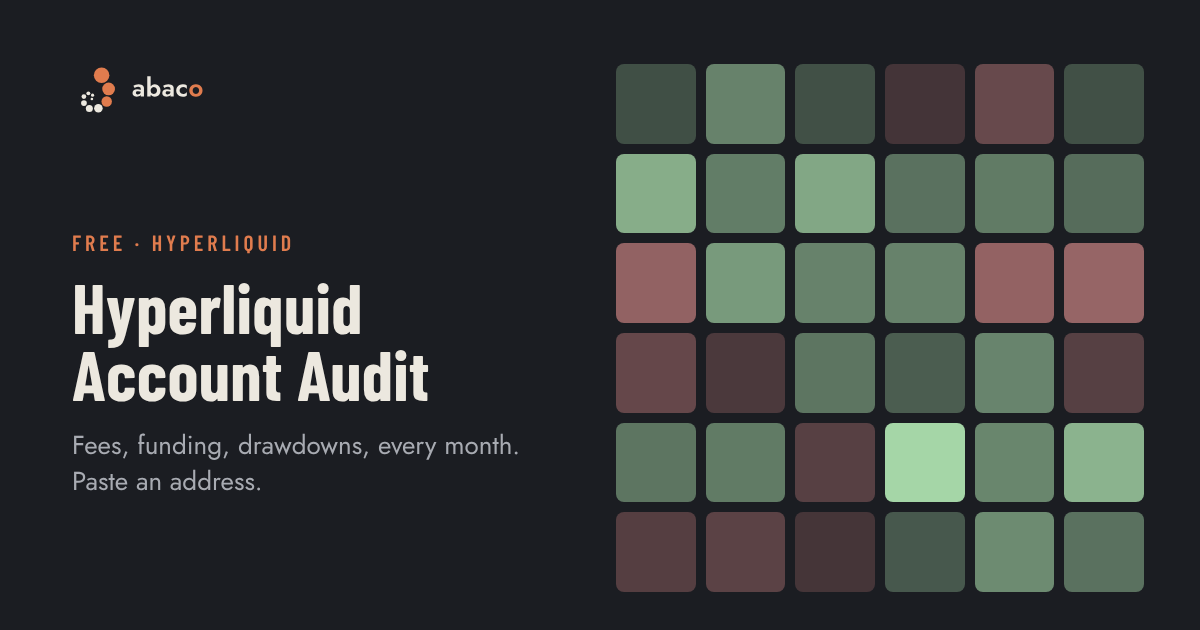
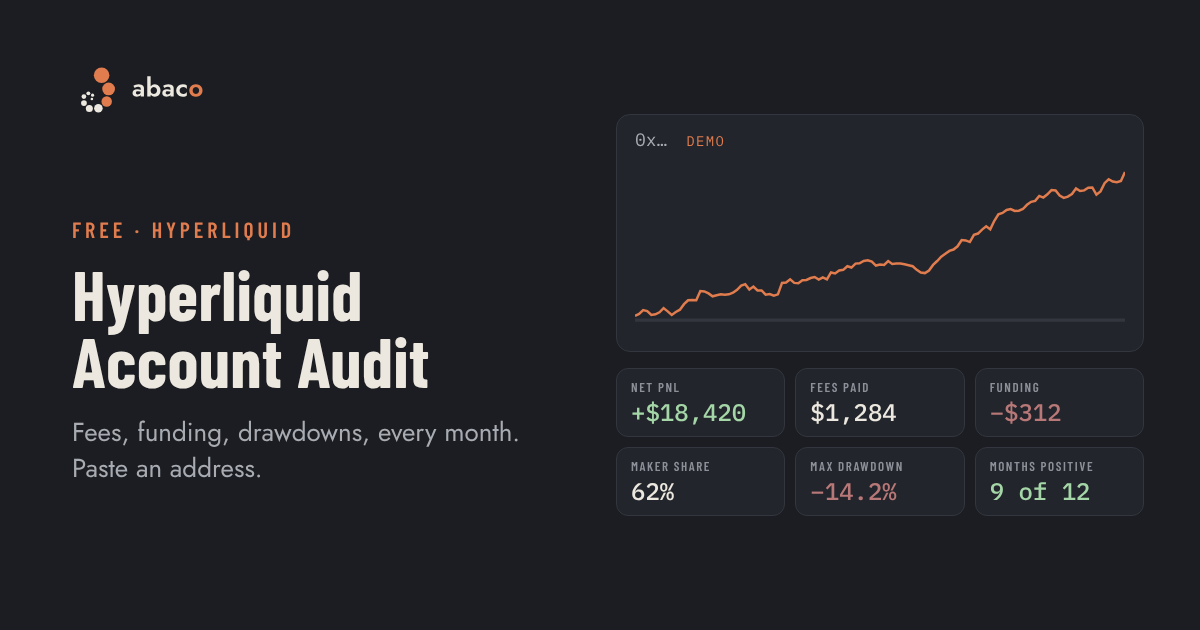
Preview cards: the audit with an equity and a demo report, Phisys with the Book, pricing with the levels, the HL study with 0x8bae's equity; Telegram image shows the messages too
Claude-Session: https://claude.ai/code/session_01PvRzho6i35K84RiJEfQJhD

diff --git a/phisys.html b/phisys.html
@@ -7,10 +7,10 @@
 <meta name="description" content="Phisys: trade by hand with a method, prove your rules out of sample with real costs, and let your Book run from your own Cloudflare account.">
 <meta property="og:title" content="Phisys · Abaco">
 <meta property="og:description" content="Phisys: trade by hand with a method, prove your rules out of sample with real costs, and let your Book run from your own Cloudflare account.">
-<meta property="og:image" content="https://abaco.phisys.app/img/og/phisys.png">
+<meta property="og:image" content="https://abaco.phisys.app/img/og/phisys.png?v=2">
 <meta property="og:image:width" content="1200">
 <meta property="og:image:height" content="630">
-<meta name="twitter:image" content="https://abaco.phisys.app/img/og/phisys.png">
+<meta name="twitter:image" content="https://abaco.phisys.app/img/og/phisys.png?v=2">
 <meta property="og:url" content="https://abaco.phisys.app/phisys.html">
 <meta name="twitter:card" content="summary_large_image">
 <meta name="twitter:site" content="@AbacoLab">
@@ -74,7 +74,7 @@
 <section class="sec" id="run" aria-labelledby="run-h">
   <div class="wrap">
     <div class="sec-head"><p class="eyebrow"><svg class="step" viewBox="0 0 48 12" aria-hidden="true"><path d="M1 6h46"/><circle cx="6" cy="6" r="3.3"/><circle cx="24" cy="6" r="3.3"/><circle cx="42" cy="6" r="3.3" class="on"/></svg>book · let it run</p><h2 id="run-h">Stop staring at charts</h2><p class="lede wide2">When a rule has held out of sample, its setup goes in your Book. The executor runs it round the clock from your own account, while you live your life.</p></div>
-    <div class="reel" role="list" aria-label="Book and executor in Phisys" tabindex="0"><figure><div class="shot has-img"><img src="img/phisys/book.webp" alt="Phisys: Book" loading="lazy" decoding="async"></div><figcaption><b>Book</b><span>Tested setups held together: 5, 8, 13 or no limit, by plan. One Book runs live at a time.</span></figcaption></figure><figure><div class="shot has-img"><img src="img/phisys/executor.webp" alt="Phisys: Executor" loading="lazy" decoding="async"></div><figcaption><b>Executor</b><span>Sends the Book's orders from your own Cloudflare account, day and night.</span></figcaption></figure><figure><div class="shot has-img"><img src="img/phisys/telegram.webp" alt="Phisys: Telegram when something needs you" loading="lazy" decoding="async"></div><figcaption><b>Telegram when something needs you</b><span>The executor down, a venue gone quiet, an order refused. Never signals.</span></figcaption></figure><figure><div class="shot has-img"><img src="img/phisys/stop-it.webp" alt="Phisys: Stop it from the page" loading="lazy" decoding="async"></div><figcaption><b>Stop it from the page</b><span>At any moment, with one click.</span></figcaption></figure><figure><div class="shot has-img"><img src="img/phisys/screener.webp" alt="Phisys: Screener" loading="lazy" decoding="async"></div><figcaption><b>Screener</b><span>Alerts on a whole watchlist.</span></figcaption></figure></div>
+    <div class="reel" role="list" aria-label="Book and executor in Phisys" tabindex="0"><figure><div class="shot has-img"><img src="img/phisys/book.webp" alt="Phisys: Book" loading="lazy" decoding="async"></div><figcaption><b>Book</b><span>Tested setups held together: 5, 8, 13 or no limit, by plan. One Book runs live at a time.</span></figcaption></figure><figure><div class="shot has-img"><img src="img/phisys/executor.webp" alt="Phisys: Executor" loading="lazy" decoding="async"></div><figcaption><b>Executor</b><span>Sends the Book's orders from your own Cloudflare account, day and night.</span></figcaption></figure><figure><div class="shot has-img"><img src="img/phisys/telegram.webp?v=2" alt="Phisys: Telegram when something needs you" loading="lazy" decoding="async"></div><figcaption><b>Telegram when something needs you</b><span>The executor down, a venue gone quiet, an order refused. Never signals.</span></figcaption></figure><figure><div class="shot has-img"><img src="img/phisys/stop-it.webp" alt="Phisys: Stop it from the page" loading="lazy" decoding="async"></div><figcaption><b>Stop it from the page</b><span>At any moment, with one click.</span></figcaption></figure><figure><div class="shot has-img"><img src="img/phisys/screener.webp" alt="Phisys: Screener" loading="lazy" decoding="async"></div><figcaption><b>Screener</b><span>Alerts on a whole watchlist.</span></figcaption></figure></div>
     <div style="margin-top:clamp(56px,7vw,96px)"><article class="block">
       <div class="art"><svg class="anim" viewBox="0 0 220 220" aria-hidden="true" focusable="false"><circle class="s-line" cx="110" cy="110" r="86"/><circle class="f-fg" cx="110.00" cy="24.00" r="4"/><circle class="f-b3" cx="132.26" cy="26.93" r="2.4"/><circle class="f-b3" cx="153.00" cy="35.52" r="2.4"/><circle class="f-b3" cx="170.81" cy="49.19" r="2.4"/><circle class="f-b3" cx="184.48" cy="67.00" r="2.4"/><circle class="f-b3" cx="193.07" cy="87.74" r="2.4"/><circle class="f-fg" cx="196.00" cy="110.00" r="4"/><circle class="f-b3" cx="193.07" cy="132.26" r="2.4"/><circle class="f-b3" cx="184.48" cy="153.00" r="2.4"/><circle class="f-b3" cx="170.81" cy="170.81" r="2.4"/><circle class="f-b3" cx="153.00" cy="184.48" r="2.4"/><circle class="f-b3" cx="132.26" cy="193.07" r="2.4"/><circle class="f-fg" cx="110.00" cy="196.00" r="4"/><circle class="f-b3" cx="87.74" cy="193.07" r="2.4"/><circle class="f-b3" cx="67.00" cy="184.48" r="2.4"/><circle class="f-b3" cx="49.19" cy="170.81" r="2.4"/><circle class="f-b3" cx="35.52" cy="153.00" r="2.4"/><circle class="f-b3" cx="26.93" cy="132.26" r="2.4"/><circle class="f-fg" cx="24.00" cy="110.00" r="4"/><circle class="f-b3" cx="26.93" cy="87.74" r="2.4"/><circle class="f-b3" cx="35.52" cy="67.00" r="2.4"/><circle class="f-b3" cx="49.19" cy="49.19" r="2.4"/><circle class="f-b3" cx="67.00" cy="35.52" r="2.4"/><circle class="f-b3" cx="87.74" cy="26.93" r="2.4"/><g class="a-orbit"><circle class="f-cu" cx="110" cy="24" r="7.5"/></g><text class="cl-t" x="110" y="120" text-anchor="middle">24h</text><text class="cl-s" x="110" y="143" text-anchor="middle">YOUR BOOK</text></svg></div>
       <div class="body">

diff --git a/studies/hl-accounts.html b/studies/hl-accounts.html
@@ -7,10 +7,10 @@
 <meta name="description" content="A preview of November's study: our own screen run on every Hyperliquid account. Of 1.3 million accounts, 317 pass it; 79 remain after a second read, and 38 of those trade at a pace compatible with ours.">
 <meta property="og:title" content="1.3 million accounts. 79 trade well. (preview)">
 <meta property="og:description" content="Our own screen on every Hyperliquid account. 317 of 1.3 million pass; 79 remain after a second read, and 38 of those trade at a pace compatible with ours.">
-<meta property="og:image" content="https://abaco.phisys.app/img/og/hl-accounts.png">
+<meta property="og:image" content="https://abaco.phisys.app/img/og/hl-accounts.png?v=2">
 <meta property="og:image:width" content="1200">
 <meta property="og:image:height" content="630">
-<meta name="twitter:image" content="https://abaco.phisys.app/img/og/hl-accounts.png">
+<meta name="twitter:image" content="https://abaco.phisys.app/img/og/hl-accounts.png?v=2">
 <meta property="og:url" content="https://abaco.phisys.app/studies/hl-accounts.html">
 <meta name="twitter:card" content="summary_large_image">
 <meta name="twitter:site" content="@AbacoLab">

diff --git a/hyperliquid-audit.html b/hyperliquid-audit.html
@@ -7,10 +7,10 @@
 <meta name="description" content="Paste a Hyperliquid address: fees, funding, maker or taker, drawdowns and every month, read in your browser from public data. Free.">
 <meta property="og:title" content="Hyperliquid Account Audit · Abaco">
 <meta property="og:description" content="Paste a Hyperliquid address: fees, funding, maker or taker, drawdowns and every month, read in your browser from public data. Free.">
-<meta property="og:image" content="https://abaco.phisys.app/img/og/audit.png">
+<meta property="og:image" content="https://abaco.phisys.app/img/og/audit.png?v=2">
 <meta property="og:image:width" content="1200">
 <meta property="og:image:height" content="630">
-<meta name="twitter:image" content="https://abaco.phisys.app/img/og/audit.png">
+<meta name="twitter:image" content="https://abaco.phisys.app/img/og/audit.png?v=2">
 <meta property="og:url" content="https://abaco.phisys.app/hyperliquid-audit.html">
 <meta name="twitter:card" content="summary_large_image">
 <meta name="twitter:site" content="@AbacoLab">

diff --git a/pricing.html b/pricing.html
@@ -7,10 +7,10 @@
 <meta name="description" content="Try Phisys free for three months: the beta is open to the first 30 testers. Then from Novice to Doctor, priced along Fibonacci.">
 <meta property="og:title" content="Pricing · Abaco">
 <meta property="og:description" content="Try Phisys free for three months: the beta is open to the first 30 testers. Then from Novice to Doctor, priced along Fibonacci.">
-<meta property="og:image" content="https://abaco.phisys.app/img/og/pricing.png">
+<meta property="og:image" content="https://abaco.phisys.app/img/og/pricing.png?v=2">
 <meta property="og:image:width" content="1200">
 <meta property="og:image:height" content="630">
-<meta name="twitter:image" content="https://abaco.phisys.app/img/og/pricing.png">
+<meta name="twitter:image" content="https://abaco.phisys.app/img/og/pricing.png?v=2">
 <meta property="og:url" content="https://abaco.phisys.app/pricing.html">
 <meta name="twitter:card" content="summary_large_image">
 <meta name="twitter:site" content="@AbacoLab">

diff --git a/checkout.html b/checkout.html
@@ -8,10 +8,10 @@
 <meta name="description" content="Pick a plan and pay in USDC from your own wallet: 1, 3 or 12 months.">
 <meta property="og:title" content="Checkout · Abaco">
 <meta property="og:description" content="Pick a plan and pay in USDC from your own wallet: 1, 3 or 12 months.">
-<meta property="og:image" content="https://abaco.phisys.app/img/og/pricing.png">
+<meta property="og:image" content="https://abaco.phisys.app/img/og/pricing.png?v=2">
 <meta property="og:image:width" content="1200">
 <meta property="og:image:height" content="630">
-<meta name="twitter:image" content="https://abaco.phisys.app/img/og/pricing.png">
+<meta name="twitter:image" content="https://abaco.phisys.app/img/og/pricing.png?v=2">
 <meta property="og:url" content="https://abaco.phisys.app/checkout.html">
 <meta name="twitter:card" content="summary_large_image">
 <meta name="twitter:site" content="@AbacoLab">
